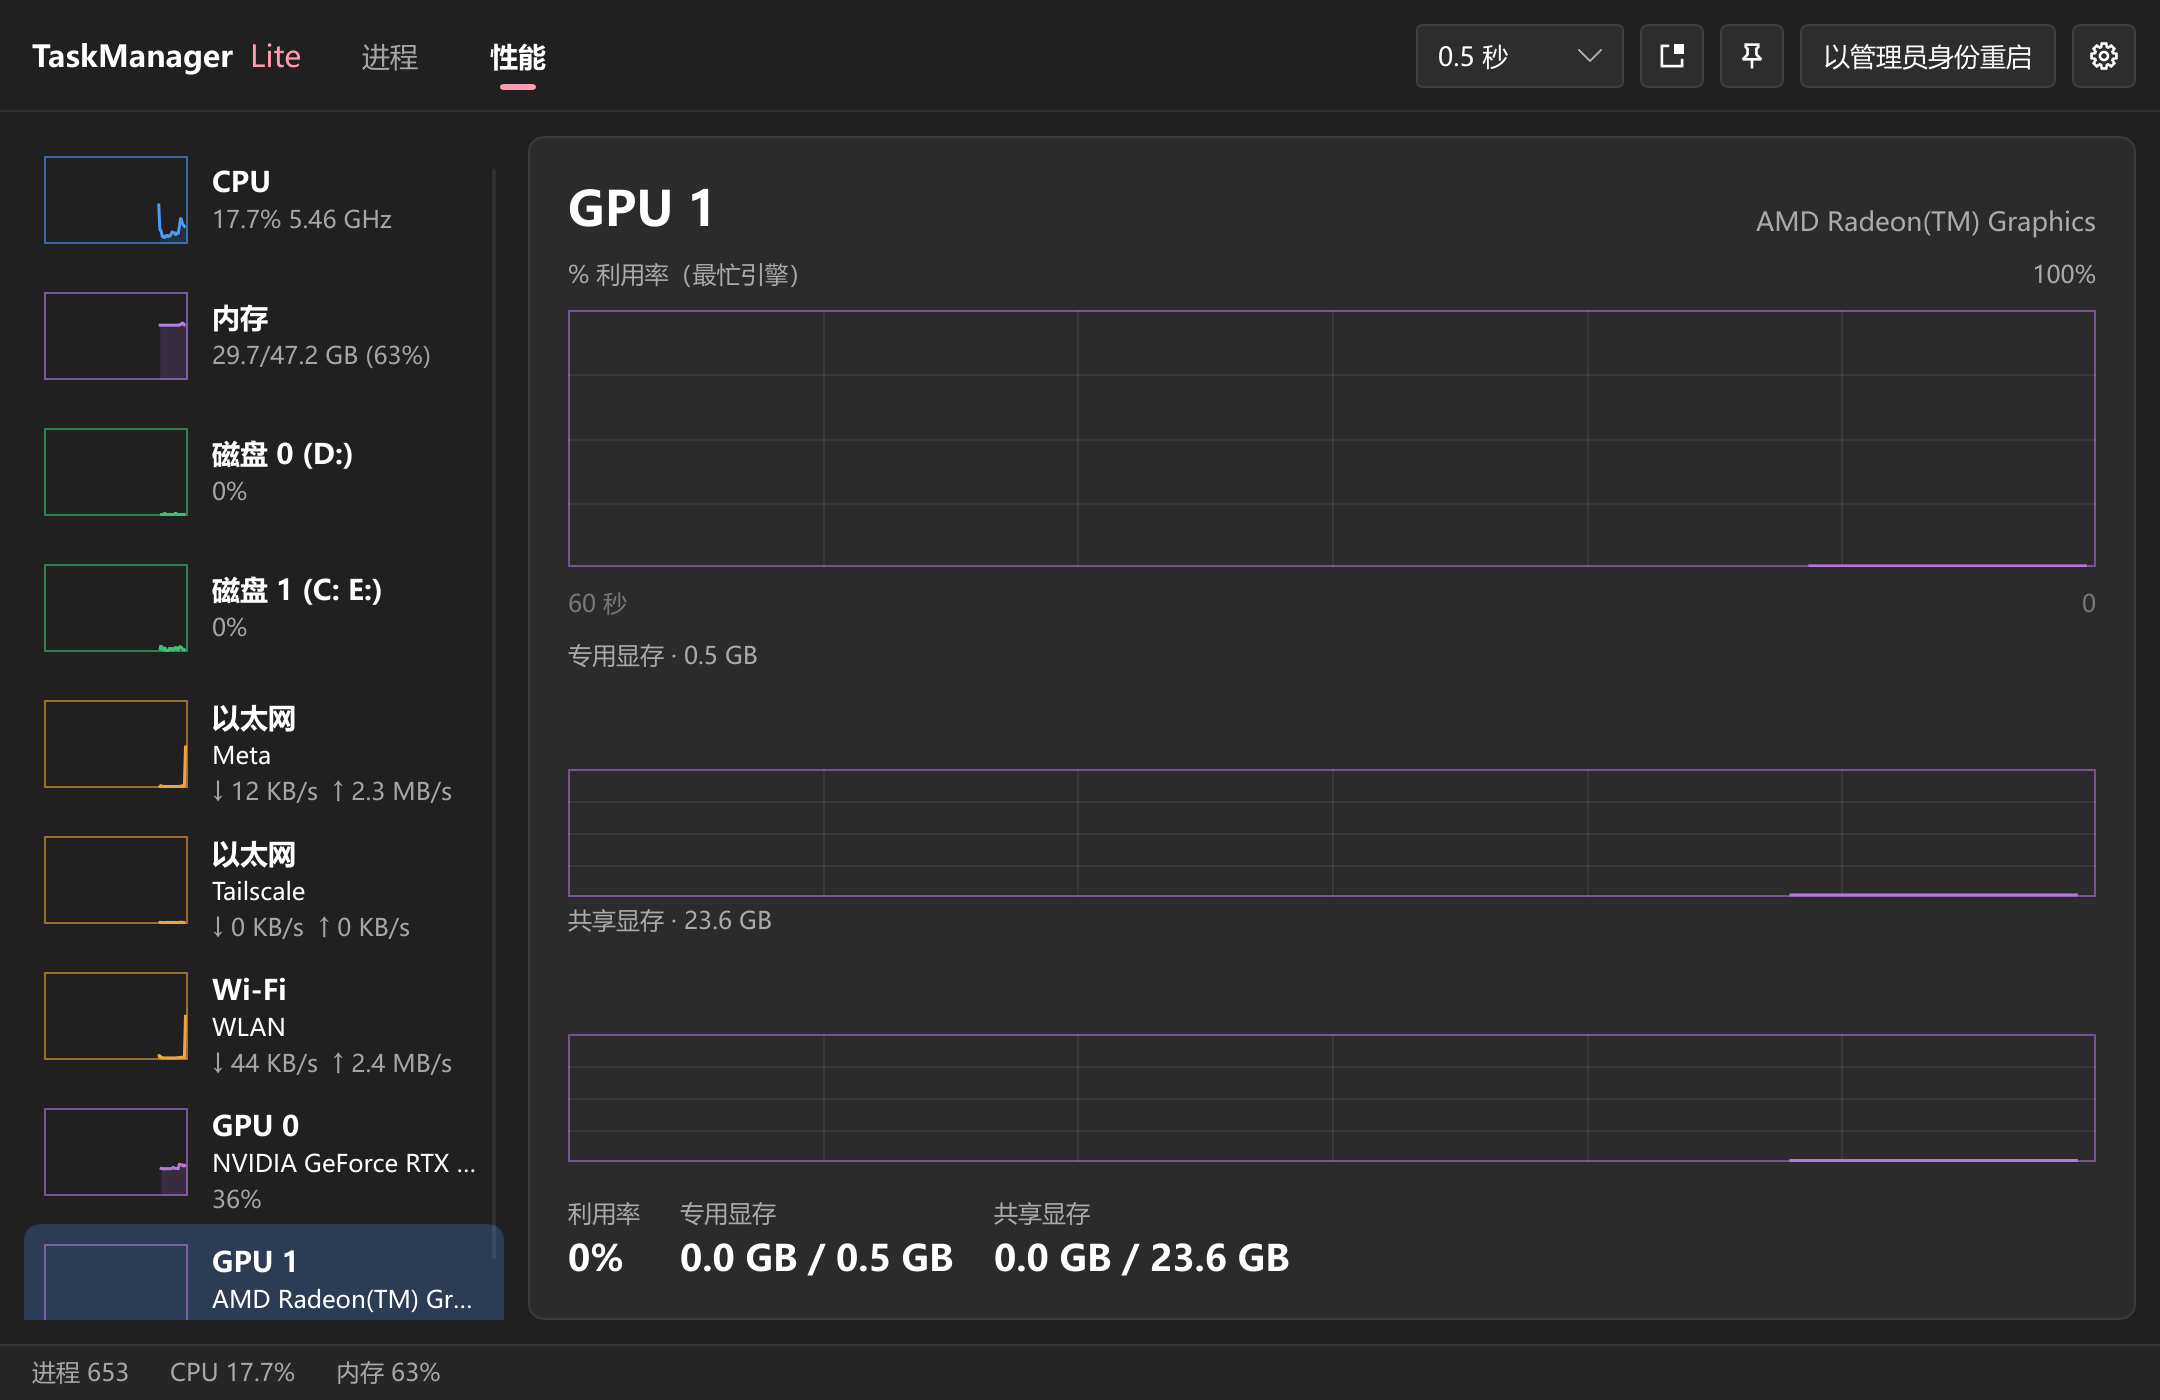
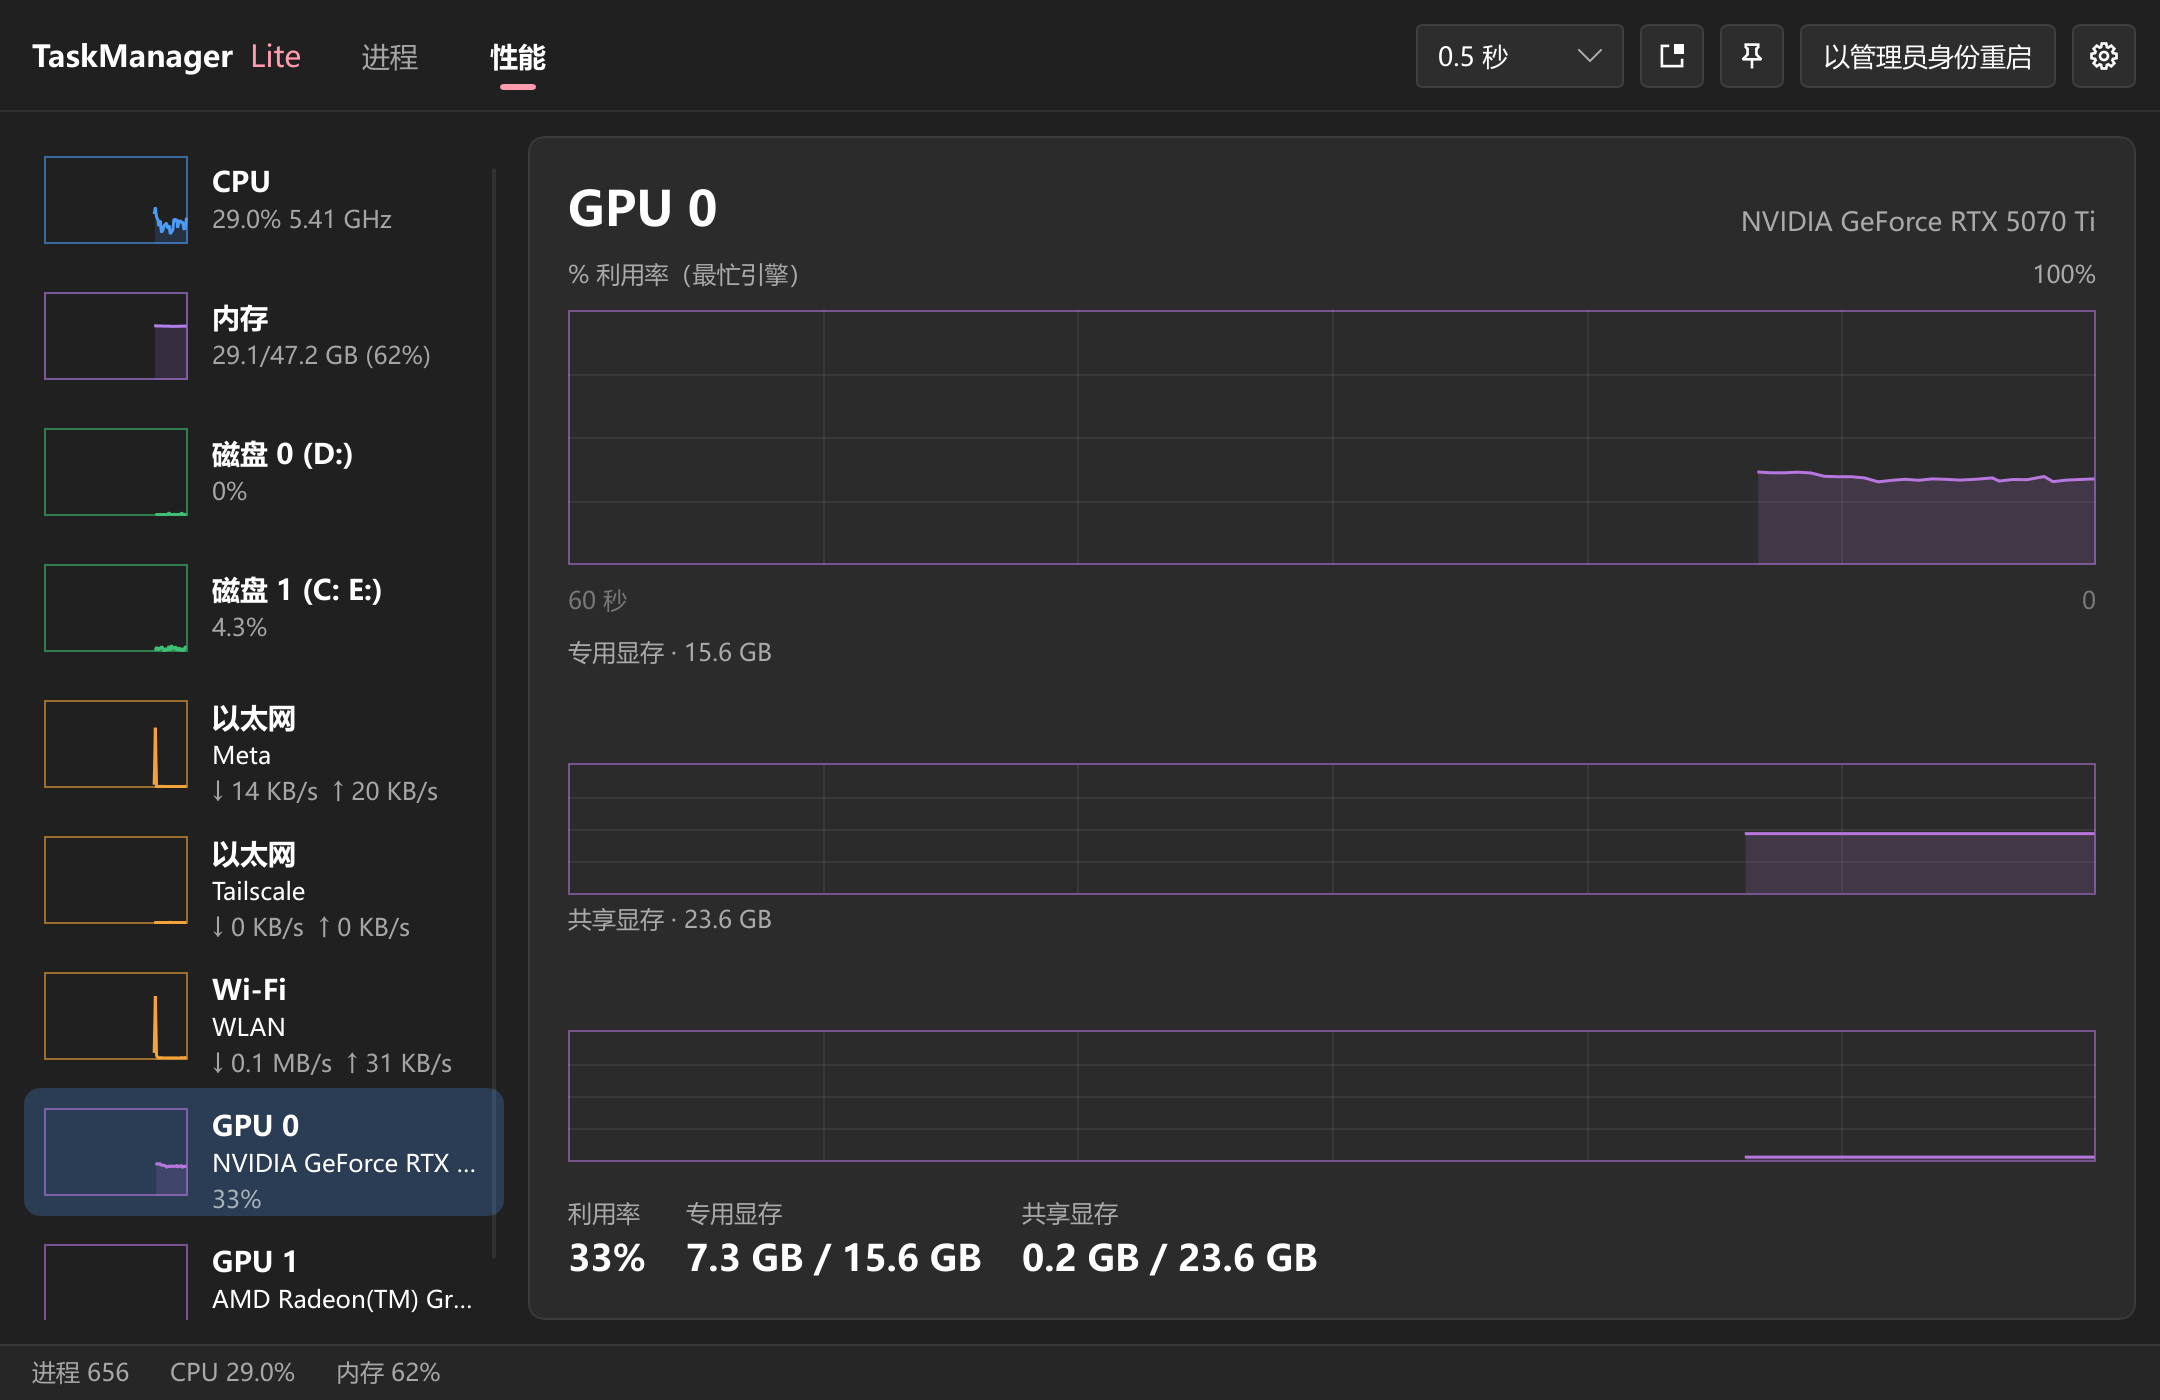
fix: 对齐 GPU 利用率和显存曲线的横轴终点

diff --git a/crates/app/src/screenshot.rs b/crates/app/src/screenshot.rs
@@ -61,7 +61,7 @@ const STEPS: &[Step] = &[
     ("05d-性能磁盘-恢复窗口", |ui| resize(ui, 1080.0, 700.0)),
     ("05e-性能GPU-深色", |ui| {
         let resources = ui.get_resources();
-        for i in (0..resources.row_count()).rev() {
+        for i in 0..resources.row_count() {
             let row = resources.row_data(i).unwrap();
             if row.kind == crate::ResourceKind::Gpu {
                 ui.invoke_resource_selected(row.id);
